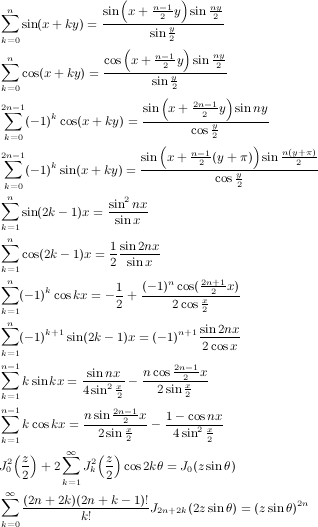
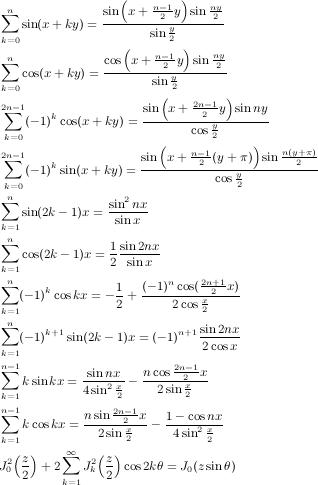
bugs

Changed region(s): [[0.0, 0.0, 1.0, 1.0], [0.934, 0.9278, 0.9623, 0.9588]]

diff --git a/sndclm.html b/sndclm.html
@@ -1957,7 +1957,6 @@ sceq14:
 &\sum_{k=1}^{n-1}k\sin kx=\frac{\sin nx}{4 \sin^{2}\frac{x}{2}} - \frac{n \cos \frac{2n-1}{2}x}{2\sin\frac{x}{2}} \\
 &\sum_{k=1}^{n-1}k\cos kx=\frac{n\sin\frac{2n-1}{2}x}{2\sin\frac{x}{2}} - \frac{1-\cos nx}{4\sin^{2}\frac{x}{2}} \\
 &J_{0}^{2}\Big(\frac{z}{2}\Big)+2\sum_{k=1}^{\infty} J_{k}^{2}\Big(\frac{z}{2}\Big)\cos2k\theta = J_{0}(z \sin \theta) \\
-&\sum_{k=0}^{\infty} \frac{(2n+2k)(2n+k-1)!}{k!}J_{2n+2k}(2z \sin \theta) = (z \sin \theta)^{2n} \\
 
 sceq15:
 &\sum_{k=1}^{n-1}p^{k}\sin kx=\frac{p\sin x - p^{n}\sin nx + p^{n+1}\sin(n-1)x}{1-2p\cos x+p^{2}} \\
@@ -1968,11 +1967,17 @@ sceq15:
 &\sum_{k=1}^{\infty}\frac{p^{k}\cos kx}{k} = \ln \frac{1}{\sqrt{1-2p\cos x + p^{2}}} \\
 &\sum_{k=1}^{\infty}\frac{p^{2k-1}\sin(2k-1)x}{2k-1} = \frac{1}{2}\arctan \frac{2p\sin x}{1-p^{2}} \\
 &\sum_{k=1}^{\infty}\frac{p^{2k-1}\cos(2k-1)x}{2k-1} = \frac{1}{4}\ln \frac{1+2p\cos x + p^{2}}{1-2p\cos x + p^{2}} \\
-&\sum_{k=1}^{\infty}\frac{p^{k}\sin kx}{k!} = e^{p\cos x}\sin(p\sin x) \\
-&\sum_{k=0}^{\infty}\frac{p^{k}\cos kx}{k!} = e^{p\cos x}\cos(p\sin x) \\
 &\sum_{k=1}^{\infty}e^{-kt}\sin kx = \frac{1}{2}\frac{\sin x}{\cosh t - \cos x} \\
 &1 + 2\sum_{k=1}^{\infty}e^{-kt}\cos kx = \frac{\sinh t}{\cosh t - \cos x} \\
+&\sum_{k=0}^{\infty} \frac{(2n+2k)(2n+k-1)!}{k!}J_{2n+2k}(2z \sin \theta) = (z \sin \theta)^{2n} \\
 \end{align*}
+
+
+
+old in 2nd col (replaced by JO cases):
+&\sum_{k=1}^{\infty}\frac{p^{k}\sin kx}{k!} = e^{p\cos x}\sin(p\sin x) \\
+&\sum_{k=0}^{\infty}\frac{p^{k}\cos kx}{k!} = e^{p\cos x}\cos(p\sin x) \\
+rk!sin and cos
 
 original last of 1st col:
 &\sum_{k=1}^{\infty} \frac{\sin^{2k} x}{k} = -2 \ln \cos x & (x^{2} < \frac{pi^{2}}{4}) \\
@@ -2059,6 +2064,7 @@ from Askey "Ramanujan and Hypergeometric Series" in Berndt and Rankin "Ramanujan
    this is r2k!cos in generators.scm [sceq30.png]
 &(1 - 2r \cos \theta + r^{2})^{-k} = \frac{{}_{2}F_{1}(k, k; 1; r^{2})}{2} + \sum_{n=1}^{\infty} \frac{(k)_{n}}{n!} r^{n} {}_{2}F_{1}(k, k+n; n+1; r^{2}) \cos n\theta
 
+
 Montgomery and Vorhauer:
 &\sum_{n=1}^{\infty} \frac{\sin \frac{k \pi}{n+1}}{\sin \frac{\pi}{n+1}} \cos k\theta = \frac{(\cos \frac{1}{2}(n+1)\theta)^{2}}{\cos \theta - \cos \frac{\pi}{n+1}}
 
@@ -2067,7 +2073,7 @@ Montgomery and Vorhauer:
 &J_{n}(x) = \frac{(\frac{x}{2})^{n}}{\Gamma(n+1)} e^{-ix} \Phi(n+\frac{1}{2}, 2n+1; 2ix) \\
 &I_{n}(x) = \frac{(\frac{x}{2})^{n}}{\Gamma(n+1)} e^{-x} \Phi(n+\frac{1}{2}, 2n+1; 2x) \\
 
-TODO: from Klapper, Selected Papers on Frequency Modulation, p 156
+from Klapper, Selected Papers on Frequency Modulation, p 156
 &\sum_{n=-\infty}^{\infty} (-1)^{n} J_{2n}(x) J_{2n}(y(\omega + B \cos z)) = J_{0}( \sqrt{x^{2} + y^{2} (\omega + B\cos z)^{2}})
 
 another kernel set: binomial coeffs G&R 1.320 etc -- not different enough
@@ -2093,7 +2099,6 @@ another kernel set: binomial coeffs G&R 1.320 etc -- not different enough
   <area shape=rect coords="0,361,300,410" href="sndclm.html#nkssb" alt="nkssb">
   <area shape=rect coords="0,411,300,450" href="sndclm.html#nkssb" alt="nkssb">
   <area shape=rect coords="0,451,300,500" href="sndclm.html#j0evencos" alt="j0evencos">
-  <area shape=rect coords="0,501,300,527" href="sndclm.html#sin2n" alt="sin2n">
 </map>
 </td>
 <td width=40></td>
@@ -2107,10 +2112,10 @@ another kernel set: binomial coeffs G&R 1.320 etc -- not different enough
     <area shape=rect coords="0,221,300,250" href="sndclm.html#rkcos" alt="rkcos">
     <area shape=rect coords="0,251,300,300" href="sndclm.html#rkoddssb" alt="rkoddssb">
     <area shape=rect coords="0,301,300,340" href="sndclm.html#rkoddssb" alt="rkoddssb">
-    <area shape=rect coords="0,341,300,380" href="sndclm.html#rk!sin" alt="rk!sin">
-    <area shape=rect coords="0,381,300,420" href="sndclm.html#rk!cos" alt="rk!cos">
-    <area shape=rect coords="0,421,300,460" href="sndclm.html#erssb" alt="erssb">
-    <area shape=rect coords="0,461,300,500" href="sndclm.html#ercos" alt="ercos">
+    <area shape=rect coords="0,341,300,380" href="sndclm.html#erssb" alt="erssb">
+    <area shape=rect coords="0,381,300,420" href="sndclm.html#ercos" alt="ercos">
+  <area shape=rect coords="0,421,300,500" href="sndclm.html#sin2n" alt="sin2n">
+
 </map>
 </td>
 </tr>
@@ -2198,6 +2203,8 @@ sceq38:
 
 <p>
 As far as I know, most of these formulas have never been explored.
+There are many formulas that produce exponentially decaying or bell-curve shaped spectra;
+I think these all sound about the same, so I have included only a representative sample of them.
 A couple of the formulas are special cases of the "Bessel function summation theorem", G&amp;R 8.530:
 <img src="sceq38.png" alt="summation formula" align=absmiddle>,
 where Z stands for any of the various Bessel functions (J, Y, etc),
@@ -5199,7 +5206,13 @@ This generator's output is not normalized, and looks incorrect...
   <A class=def NAME="rxyk!ssb?">rxyk!ssb?</A> gen
 </pre>
 
-<p>This produces a sum of sinusoids scaled by (r^k)/k!.
+
+<!-- LATEX: for rk!cos
+&\sum_{k=1}^{\infty}\frac{p^{k}\sin kx}{k!} = e^{p\cos x}\sin(p\sin x) \\
+&\sum_{k=0}^{\infty}\frac{p^{k}\cos kx}{k!} = e^{p\cos x}\cos(p\sin x) \\
+-->
+
+<p>These produce a sum of sinusoids scaled by (r^k)/k!.  (rk!cos is a special case of rxyk!cos).
 </p>
 <br>
 

diff --git a/snd-chn.c b/snd-chn.c
@@ -2,6 +2,9 @@
 #include "clm2xen.h"
 #include "clm-strings.h"
 
+/* TODO: if chans combined, change zy/sy, uncombine, secondary chan sliders not set right (at least zy isn't)
+ */
+
 /* it would be neat I think to change label font sizes/button sizes etc when dialog changes size
  *   but there's no way to trap the outer resizing event and
  *   in Gtk, the size is not (currently) allowed to go below the main buttons (as set by font/stock-labelling)
@@ -683,6 +686,7 @@ void add_channel_data_1(chan_info *cp, int srate, off_t frames, channel_graph_t 
       (peak_env_maxamp_ok(cp, 0))) /* peak-env.scm uses initial-graph-hook to read in this data, so it's not entirely hopeless */
     {
       ymax = peak_env_maxamp(cp, 0);
+      if (ymax < 1.0) ymax = 1.0;
       ymin = -ymax;
     }
   else
@@ -715,6 +719,7 @@ void add_channel_data_1(chan_info *cp, int srate, off_t frames, channel_graph_t 
   if (y0 >= y1) y0 = y1 - .01;
   ap = make_axis_info(cp, 0.0, xmax, ymin, ymax, (hook_label) ? hook_label : label, x0, x1, y0, y1, NULL);
   if (hook_label) FREE(hook_label);
+
   if (dur == 0)
     {
       ap->zx = 1.0;
@@ -730,14 +735,16 @@ void add_channel_data_1(chan_info *cp, int srate, off_t frames, channel_graph_t 
 	}
       ap->no_data = false;
     }
+
   if (ap->y_ambit != 0.0)
     {
       ap->zy = (ap->y1 - ap->y0) / ap->y_ambit;
       ap->sy = (ap->y0 - ap->ymin) / ap->y_ambit;
     }
+
   cp->axis = ap;
-  if (graphed == WITH_GRAPH) initialize_scrollbars(cp);
-  /* our initial edit_list size will be relatively small */
+  if (graphed == WITH_GRAPH) 
+    initialize_scrollbars(cp);
 }
 
 
@@ -834,9 +841,12 @@ void set_x_bounds(axis_info *ap)
 void apply_y_axis_change(axis_info *ap, chan_info *cp)
 {
   snd_info *sp;
+  sp = cp->sound;
+
   set_y_bounds(ap);
   update_graph_or_warn(cp);
-  sp = cp->sound;
+  update_enved_background_waveform(cp);
+
   if (sp->channel_style != CHANNELS_SEPARATE)
     {
       int i;
@@ -1162,6 +1172,7 @@ int move_axis(chan_info *cp, axis_info *ap, int x)
 
 void set_axes(chan_info *cp, double x0, double x1, Float y0, Float y1)
 {
+  /* use to change channel_style to channels_separate, and restore axes upon update */
   axis_info *ap;
   ap = cp->axis;
   ap->x0 = x0;
@@ -1179,7 +1190,7 @@ void set_axes(chan_info *cp, double x0, double x1, Float y0, Float y1)
       ap->zy = (y1 - y0) / ap->y_ambit;
       ap->sy = (y0 - ap->ymin) / ap->y_ambit;
     }
-  resize_sy(cp);
+  resize_sy_and_zy(cp);
 }
 
 

diff --git a/snd-xchn.c b/snd-xchn.c
@@ -255,6 +255,14 @@ void resize_sy(chan_info *cp)
 		  SCROLLBAR_MAX);
 }
 
+
+void resize_sy_and_zy(chan_info *cp)
+{
+  resize_sy(cp);
+  set_scrollbar(channel_zy(cp), sqrt(cp->axis->zy), .1, SCROLLBAR_MAX);  
+}
+
+
 void resize_sx(chan_info *cp)
 {
   axis_info *ap;
@@ -1452,6 +1460,7 @@ void change_channel_style(snd_info *sp, channel_style_t new_style)
 		  for (i = 1; i < sp->nchans; i++) channel_set_mix_tags_erased(sp->chans[i]);
 		}
 	    }
+
 	  if (old_style == CHANNELS_SUPERIMPOSED)
 	    {
 	      syncb(sp, sp->previous_sync);
@@ -1469,6 +1478,7 @@ void change_channel_style(snd_info *sp, channel_style_t new_style)
 		  for (i = 1; i < sp->nchans; i++) CURSOR(sp->chans[i]) = CURSOR(sp->chans[0]);
 		}
 	    }
+
 	  height = widget_height(w_snd_pane(sp)) - control_panel_height(sp);
 	  if (old_style == CHANNELS_SEPARATE)
 	    {
@@ -1490,10 +1500,10 @@ void change_channel_style(snd_info *sp, channel_style_t new_style)
 	    }
 	  else
 	    {
-	      axis_info *ap;
-	      chan_info *pcp;
 	      if (new_style == CHANNELS_SEPARATE)
 		{
+		  axis_info *ap;
+		  chan_info *pcp;
 		  /* height = total space available */
 		  height /= sp->nchans;
 		  for_each_sound_chan_with_int(sp, channel_lock_pane, height);

diff --git a/snd-nogui.c b/snd-nogui.c
@@ -129,6 +129,7 @@ void initialize_scrollbars(chan_info *cp) {}
 void set_z_scrollbars(chan_info *cp, axis_info *ap) {}
 void resize_sx(chan_info *cp) {}
 void resize_sy(chan_info *cp) {}
+void resize_sy_and_zy(chan_info *cp) {}
 void resize_sx_and_zx(chan_info *cp) {}
 void channel_open_pane(chan_info *cp) {}
 void reflect_edit_history_change(chan_info *cp) {}
@@ -199,6 +200,7 @@ void enved_reflect_peak_env_completion(snd_info *sp) {}
 void new_active_channel_alert(void) {}
 void env_redisplay(void) {}
 void env_redisplay_with_print(void) {}
+void update_enved_background_waveform(chan_info *cp) {}
 int create_envelope_editor(void) {return(0);}
 void set_enved_clip_p(bool val) {}
 void reflect_enved_style(void) {}

diff --git a/snd-g1.h b/snd-g1.h
@@ -220,6 +220,7 @@ GtkWidget *channel_down_arrow(chan_info *cp);
 void channel_open_pane(chan_info *cp);
 void resize_sx(chan_info *cp);
 void resize_sy(chan_info *cp);
+void resize_sy_and_zy(chan_info *cp);
 void resize_sx_and_zx(chan_info *cp);
 void initialize_scrollbars(chan_info *cp);
 void set_z_scrollbars(chan_info *cp, axis_info *ap);
@@ -448,6 +449,7 @@ void enved_reflect_peak_env_completion(snd_info *sp);
 void new_active_channel_alert(void);
 void env_redisplay(void);
 void env_redisplay_with_print(void);
+void update_enved_background_waveform(chan_info *cp);
 void enved_display_point_label(Float x, Float y);
 void display_enved_progress(char *str, picture_t *pix);
 void enved_print(char *name);

diff --git a/snd-x1.h b/snd-x1.h
@@ -287,6 +287,7 @@ void initialize_scrollbars(chan_info *cp);
 void set_z_scrollbars(chan_info *cp, axis_info *ap);
 void resize_sx(chan_info *cp);
 void resize_sy(chan_info *cp);
+void resize_sy_and_zy(chan_info *cp);
 void resize_sx_and_zx(chan_info *cp);
 void channel_open_pane(chan_info *cp);
 void channel_unlock_pane(chan_info *cp);
@@ -415,6 +416,7 @@ void enved_reflect_peak_env_completion(snd_info *sp);
 void new_active_channel_alert(void);
 void env_redisplay(void);
 void env_redisplay_with_print(void);
+void update_enved_background_waveform(chan_info *cp);
 void enved_display_point_label(Float x, Float y);
 void display_enved_progress(char *str, Pixmap pix);
 void enved_print(char *name);

diff --git a/snd-nogui1.h b/snd-nogui1.h
@@ -169,6 +169,7 @@ void initialize_scrollbars(chan_info *cp);
 void set_z_scrollbars(chan_info *cp, axis_info *ap);
 void resize_sx(chan_info *cp);
 void resize_sy(chan_info *cp);
+void resize_sy_and_zy(chan_info *cp);
 void resize_sx_and_zx(chan_info *cp);
 void channel_open_pane(chan_info *cp);
 void reflect_edit_history_change(chan_info *cp);
@@ -273,6 +274,7 @@ void enved_reflect_peak_env_completion(snd_info *sp);
 void new_active_channel_alert(void);
 void env_redisplay(void);
 void env_redisplay_with_print(void);
+void update_enved_background_waveform(chan_info *cp);
 int create_envelope_editor(void);
 void set_enved_clip_p(bool val);
 void reflect_enved_style(void);

diff --git a/snd-genv.c b/snd-genv.c
@@ -290,7 +290,20 @@ static void env_redisplay_1(printing_t printing)
 
 
 void env_redisplay(void) {env_redisplay_1(NOT_PRINTING);}
+
 void env_redisplay_with_print(void) {env_redisplay_1(PRINTING);}
+
+
+void update_enved_background_waveform(chan_info *cp)
+{
+  if ((enved_dialog_is_active()) &&
+      (enved_wave_p(ss)) &&
+      (enved_target(ss) == ENVED_AMPLITUDE) &&
+      (cp == active_channel) &&
+      ((!apply_to_selection) || (selection_is_active_in_channel(cp))))
+    env_redisplay();
+}
+
 
 
 static void enved_filter_order_callback(GtkWidget *w, gpointer data)

diff --git a/snd-xenv.c b/snd-xenv.c
@@ -281,7 +281,19 @@ static void env_redisplay_1(printing_t printing)
 
 
 void env_redisplay(void) {env_redisplay_1(NOT_PRINTING);}
+
 void env_redisplay_with_print(void) {env_redisplay_1(PRINTING);}
+
+
+void update_enved_background_waveform(chan_info *cp)
+{
+  if ((enved_dialog_is_active()) &&
+      (enved_wave_p(ss)) &&
+      (enved_target(ss) == ENVED_AMPLITUDE) &&
+      (cp == active_channel) &&
+      ((!apply_to_selection) || (selection_is_active_in_channel(cp))))
+    env_redisplay();
+}
 
 
 static void enved_reset(void)

diff --git a/snd-gchn.c b/snd-gchn.c
@@ -218,6 +218,13 @@ void resize_sy(chan_info *cp)
 }
 
 
+void resize_sy_and_zy(chan_info *cp)
+{
+  resize_sy(cp);
+  set_scrollbar(zy_adj(cp), 1.0 - sqrt(cp->axis->zy), .1);
+}
+
+
 void resize_sx(chan_info *cp)
 {
   axis_info *ap;
